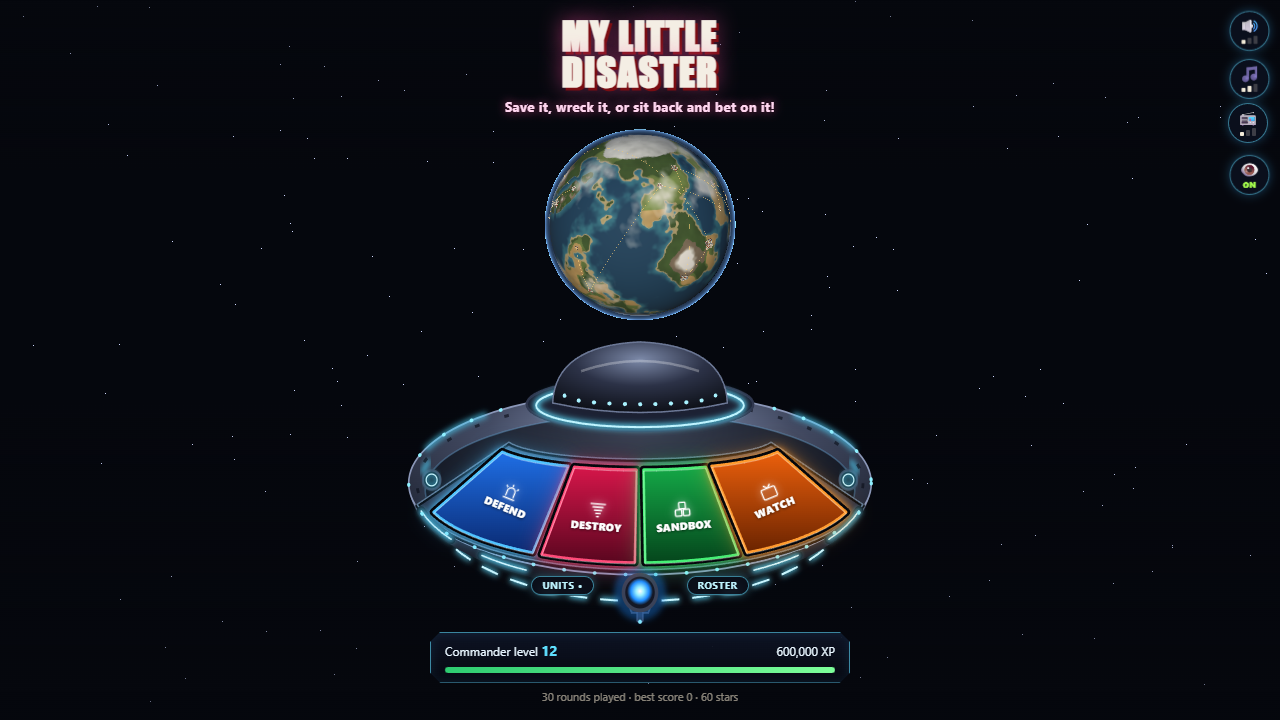
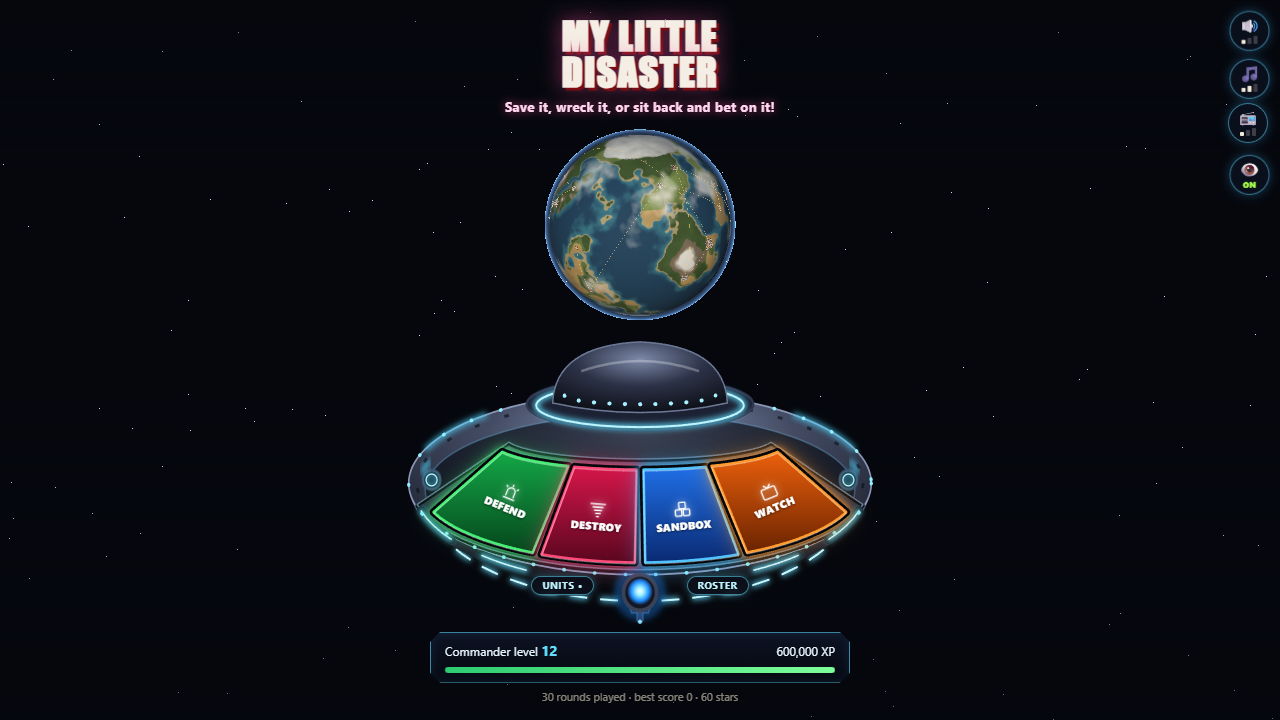
Menu colours: Defend green, Sandbox blue (swapped); the itch menu screenshot and zip follow

Changed region(s): [[0.3125, 0.6111, 0.5938, 0.7944]]

diff --git a/src/game.js b/src/game.js
@@ -138,9 +138,9 @@ const CSS = `
 #zd-menu .btns{display:flex;flex-direction:column;gap:9px}
 #zd-menu .zd-btn{padding:14px 16px;font-size:14px;color:#fff;background:linear-gradient(#8a3bff,#5216c2);border-color:rgba(255,255,255,.3);box-shadow:0 0 12px rgba(138,59,255,.4);text-shadow:0 1px 2px rgba(0,0,0,.35)} /* neon buttons, white writing */
 #zd-menu .zd-btn.main{background:linear-gradient(#ff4fa3,#b3123f);border-color:rgba(255,255,255,.4);box-shadow:0 0 14px rgba(255,79,163,.5)}
-#zd-menu .zd-btn.mode[data-play="commander"]{background:linear-gradient(#22d3ff,#0a5bd6);box-shadow:0 0 14px rgba(34,211,255,.5)}
+#zd-menu .zd-btn.mode[data-play="commander"]{background:linear-gradient(#3ee86a,#0b8a3a);box-shadow:0 0 14px rgba(62,232,106,.45)}
 #zd-menu .zd-btn.mode[data-go="be"]{background:linear-gradient(#ff4fa3,#b3123f);box-shadow:0 0 14px rgba(255,79,163,.5)}
-#zd-menu .zd-btn.mode[data-play="sandbox"]{background:linear-gradient(#3ee86a,#0b8a3a);box-shadow:0 0 14px rgba(62,232,106,.45)}
+#zd-menu .zd-btn.mode[data-play="sandbox"]{background:linear-gradient(#22d3ff,#0a5bd6);box-shadow:0 0 14px rgba(34,211,255,.5)}
 #zd-menu .zd-btn.mode[data-play="tv"]{background:linear-gradient(#ffa52b,#d1450a);box-shadow:0 0 14px rgba(255,165,43,.5)}
 #zd-menu .mode span{opacity:.9}
 #zd-menu .zd-side-btn{background:rgba(64,22,110,.85);border-color:rgba(196,128,255,.45);box-shadow:0 0 10px rgba(138,59,255,.35)}
@@ -161,9 +161,9 @@ const CSS = `
 #zd-menu .ufo .mode .lab{position:absolute;z-index:2;transform:translate(-50%,-50%);display:flex;flex-direction:column;align-items:center;gap:2px;width:max-content;white-space:nowrap;text-align:center;pointer-events:none;text-transform:uppercase;opacity:1;font-size:8.5px} /* the title in capitals, the line under it as it is (.mode span) */
 #zd-menu .ufo .mode b{font-size:10.5px;letter-spacing:.03em;font-weight:900;line-height:1.05}#zd-menu .ufo .mode span{font-size:8.5px;font-weight:600;text-transform:none;opacity:.92}
 #zd-menu .ufo .mode .lab svg{width:19px;height:19px;filter:drop-shadow(0 0 4px rgba(255,255,255,.7))}
-#zd-menu .ufo .mode[data-play="commander"]{--c:#4fc3ff;--c1:#1f6fe6;--c2:#0a2a72;--g:rgba(79,195,255,.45)}
+#zd-menu .ufo .mode[data-play="commander"]{--c:#45ef75;--c1:#14a847;--c2:#05461c;--g:rgba(69,239,117,.4)} /* Defend green, Sandbox blue (Sean) */
 #zd-menu .ufo .mode[data-go="be"]{--c:#ff4a78;--c1:#d6164a;--c2:#5a061f;--g:rgba(255,74,120,.45)}
-#zd-menu .ufo .mode[data-play="sandbox"]{--c:#45ef75;--c1:#14a847;--c2:#05461c;--g:rgba(69,239,117,.4)}
+#zd-menu .ufo .mode[data-play="sandbox"]{--c:#4fc3ff;--c1:#1f6fe6;--c2:#0a2a72;--g:rgba(79,195,255,.45)}
 #zd-menu .ufo .mode[data-play="tv"]{--c:#ff9a2e;--c1:#ec600c;--c2:#6a2300;--g:rgba(255,154,46,.45)}
 #zd-menu .ufo .orbfire{position:absolute;left:50%;top:88.7%;width:9%;aspect-ratio:1;transform:translate(-50%,-50%);border-radius:50%;border:0;padding:0;background:none;cursor:pointer;touch-action:none;-webkit-tap-highlight-color:transparent;transition:box-shadow .2s}
 #zd-menu .ufo .orbfire.charge{box-shadow:0 0 14px 4px rgba(120,220,255,.85),inset 0 0 10px rgba(255,255,255,.8)}

diff --git a/PROJECT-NOTES.md b/PROJECT-NOTES.md
@@ -598,7 +598,7 @@ READ THIS FIRST after a compaction. Current as of 2026-10-26.
 - Taking over a disaster in the Sandbox (Sean; src/takeover.js): Disasters tab, Be the disaster: Take over a unit. A label over each that can be driven (KINDS: a saucer or walker of an alien invasion, the worm, the kaiju, a tornado on the ground); tap one, then Take over. Third person, starting behind it the way it faces (K.face); left thumb moves it across the screen toward a point K.ahead off (the view swings round behind it slowly as it goes forward), a drag on the right turns the view, a pinch or the wheel zooms; keys WASD/arrows, Q/E the view, 1-3 its buttons, Esc. Buttons: saucer Beam up / Zap / Drop aliens (its own acts, started on the spot; another button changes act, the same again ends it; aliens.js: a taken saucer, s.player, chooses no act of its own), walker Beam / Heat ray (beamAt, fireAt), worm Breach! (camera above ground over where it tunnels), kaiju Throw car / Tentacle / Fire; the tornado just steers. The units' player switches (Be The Disaster's) stop their own thinking; Stop gives it back (the worm, kaiju and tornado then have a little while left). Lost (shot down, driven off, died out): back to the view from above with why.
 - The main menu's buttons as Sean's picture (game.js WEDGE, wedgeBtn, FRAME, SIDES): four curved wedge panels side by side round the front of the saucer's deck, between an inner ellipse along the dome's ring (200, 86, 124 x 21) and an outer one along the rim (200, 120, 186 x 60), cut so each is about as wide on screen (outer x 22/112/200/288/378), 1.3 degrees apart. Each button covers its box over the hull (the same 400 x 230), its own SVG draws the wedge (a dark bezel, the colour's gradient, a neon edge with a glow, a lit line) and only the wedge takes the tap (the button has pointer-events none, the path visiblePainted); the label (icon and the name in capitals, no line under it - Sean) sits at the wedge's middle above the other panels, the outer two tilted 8 degrees with the deck. They sit still. A dark metal band (FRAME) holds them, round lights at either end of the deck and lit slots along the front of the rim (SIDES). Only the dome's lights and the underside's turn now; the middle of the ship is still.
 - The menu saucer's orb is a fire button (Sean's Easter egg; game.js orbFire, menuShot): a tap fires a laser blast from it up onto the planet (globe.screenPoint, a point on the side facing the camera); held a second (it glows, then pulses red) and let go, a nuke there - a white flash, a fireball, a shockwave ring as wide as the planet (globe.screenRadius), a rising cloud, the nuke's sound. All in an SVG over the screen (#zd-menufx), gone after 3-4 s; nothing touches the map.
-- Menu names (Sean): Defend, Destroy, Sandbox, Watch (Defend and Destroy were Command and Control until 2026-10-29; inside, the modes are still Commander and Be The Disaster); each label (icon and name) turned along its panel's bottom edge (WEDGE lab[3]: the outer edge's slope on the 400 x 248 saucer, about 22 and 5 degrees).
+- Menu names (Sean): Defend, Destroy, Sandbox, Watch (Defend and Destroy were Command and Control until 2026-10-29; inside, the modes are still Commander and Be The Disaster). Colours (Sean, 2026-10-29): Defend green, Destroy red, Sandbox blue, Watch orange (Defend and Sandbox swapped). Each label (icon and name) turned along its panel's bottom edge (WEDGE lab[3]: the outer edge's slope on the 400 x 248 saucer, about 22 and 5 degrees).
 - The orb's laser comes from a small gun under the saucer's belly (drawn in SAUCER at 200, 210-227); the beam runs behind the ship (#zd-menufx under the menu, z 5) to the planet, the muzzle flash and the nuke's white-out over everything (#zd-menuflash, z 8). Held 15 s (the orb pulses green: Sean) and let go: planetBuster - a beam like a pillar, the whole planet bursts (white-out, fireball, a shockwave three planets wide, 44 pieces flying) and is gone (globe.planetScale(0): everything in the globe's scene but the stars and lights shrunk away); 2 s later a black hole opens there (a dark well with a violet glow, a turning orange disk), draws the pieces back and the planet grows back out of it as it closes (6.3 s in all, then planetScale(1)).
 - Controls on the ground and taking over (Sean, like Tornado Alley): the stick appears wherever the first finger comes down; a second finger drags the tank's gun or the view (taking over: sideways turns, up and down zooms). The officer faces the way he walks, the camera swinging round behind him, and his six-shooter fires by itself at a zombie within about 10 degrees of where he points and 40 m (a round each half second, 90%); after six it reloads itself in 3 s; no Fire button for him; the readout shows the rounds (filled and empty dots). Test: 9 zombies down in 10 shots with one reload.
 - Sean's plan for the Sandbox (2026-10-28): spawn a disaster, then fight it - from a plane, a rescue vehicle or on foot (done: flight.js, drive.js), next as a hero, then the band's tap-the-notes mini game, and last controlling the disaster itself, more third person. His examples for the fighting: a tornado - flight paths and seeding without getting sucked in; a dust storm - flying into it to take out the small whirls inside; the kaiju - bombing runs with the jet while dodging the cars it throws at the plane and its tentacles. So the disasters should be able to catch the plane (and the cars, the officer) and be beaten by them.
